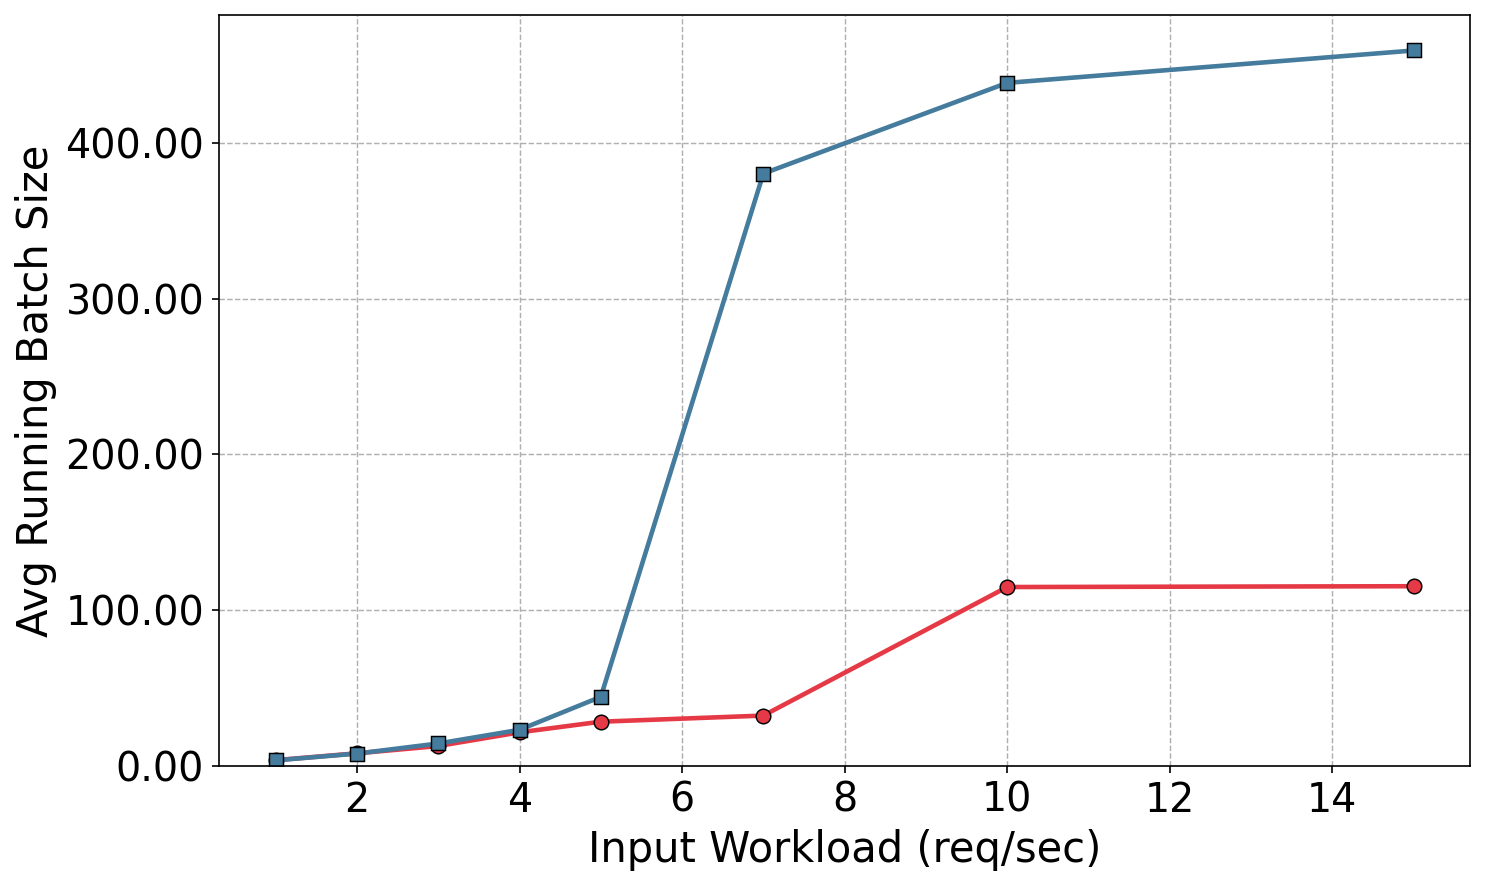
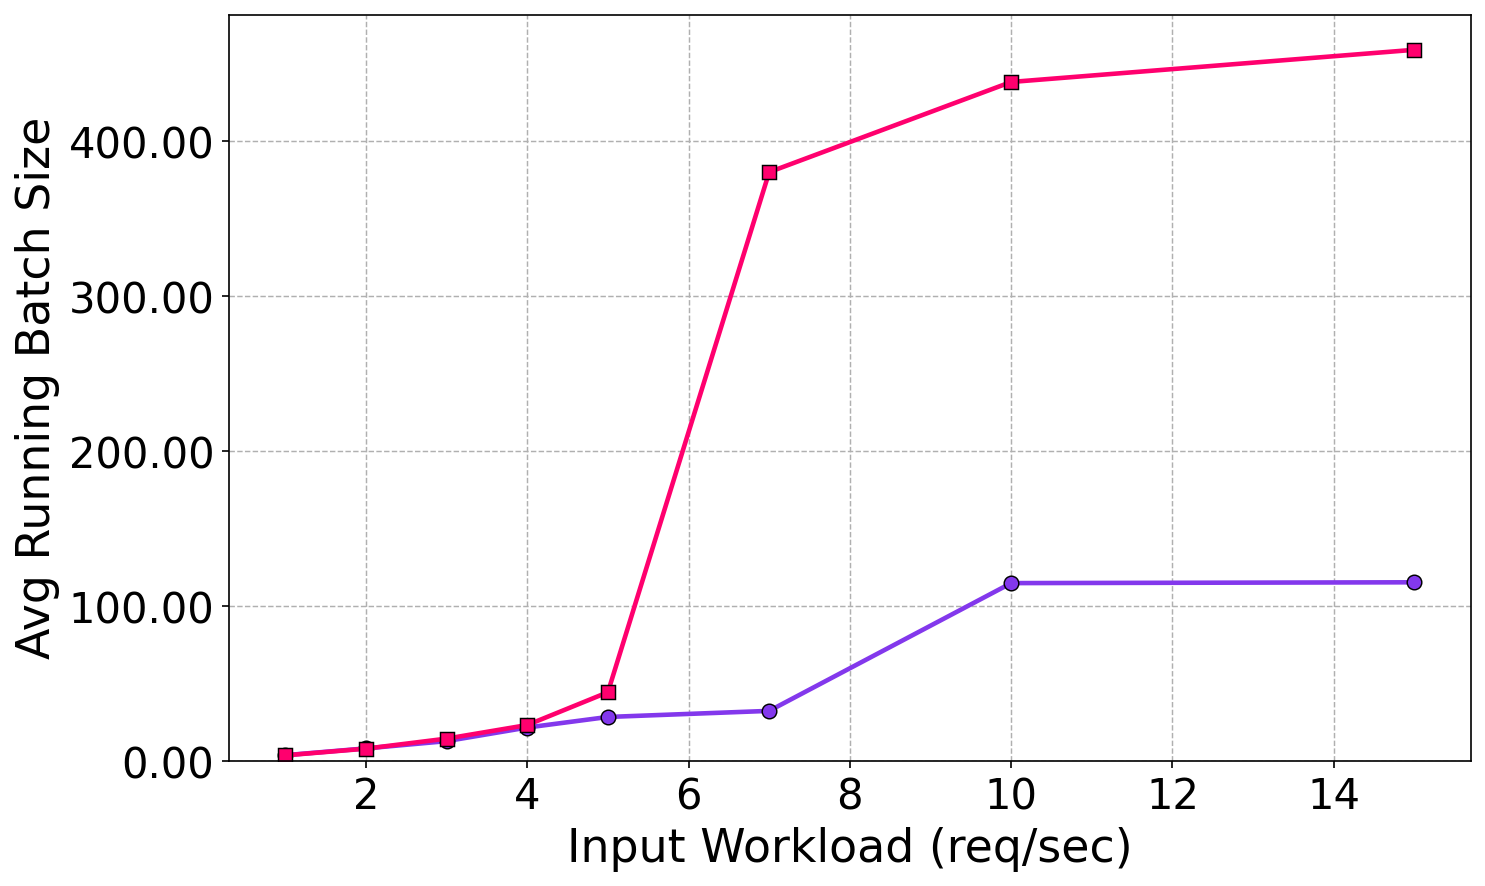
req-per-sec-ablation

diff --git a/code/vllm/req_per_sec_logs_ablation/plot.py b/code/vllm/req_per_sec_logs_ablation/plot.py
@@ -137,9 +137,7 @@ for path in log_files:
 
 # ── Plot styling (color-blind friendly) ─────────────────────────────────────
 PALETTE = [
-    "#E63946", "#457B9D", "#2A9D8F", "#E9C46A",
-    "#F4A261", "#8338EC", "#06D6A0", "#FB5607",
-    "#3A86FF", "#FF006E",
+    "#8338EC","#FF006E",
 ]
 
 MARKERS = ["o", "s", "D", "^", "v", "P", "X", "*", "<", ">"]
@@ -193,18 +191,17 @@ def make_plot(metric_key, ylabel, title, outpath):
                 label=label
             )
 
-    ax.set_xlabel("Input Workload (req/sec)", fontsize=20)
-    ax.set_ylabel(ylabel, fontsize=20)
+    ax.set_xlabel("Input Workload (req/sec)", fontsize=22)
+    ax.set_ylabel(ylabel, fontsize=22)
 
-    ax.tick_params(axis="both", labelsize=19)
+    ax.tick_params(axis="both", labelsize=20)
 
     ax.yaxis.set_major_formatter(ticker.FormatStrFormatter('%.2f'))
 
     if metric_key == "throughput":
         ax.legend(
-            fontsize=16,
+            fontsize=25,
             framealpha=0.3,
-            loc="center right",
             ncol=1
         )
 
@@ -244,7 +241,7 @@ make_plot(
 
 make_plot(
     "avg_diff",
-    "Time Between Tokens",
+    "Time Between Tokens (s)",
     "Average Consecutive Scheduler Timestamp Diff vs Request Rate",
     os.path.join(OUT, "avg_timediff_vs_rps.png")
 )
